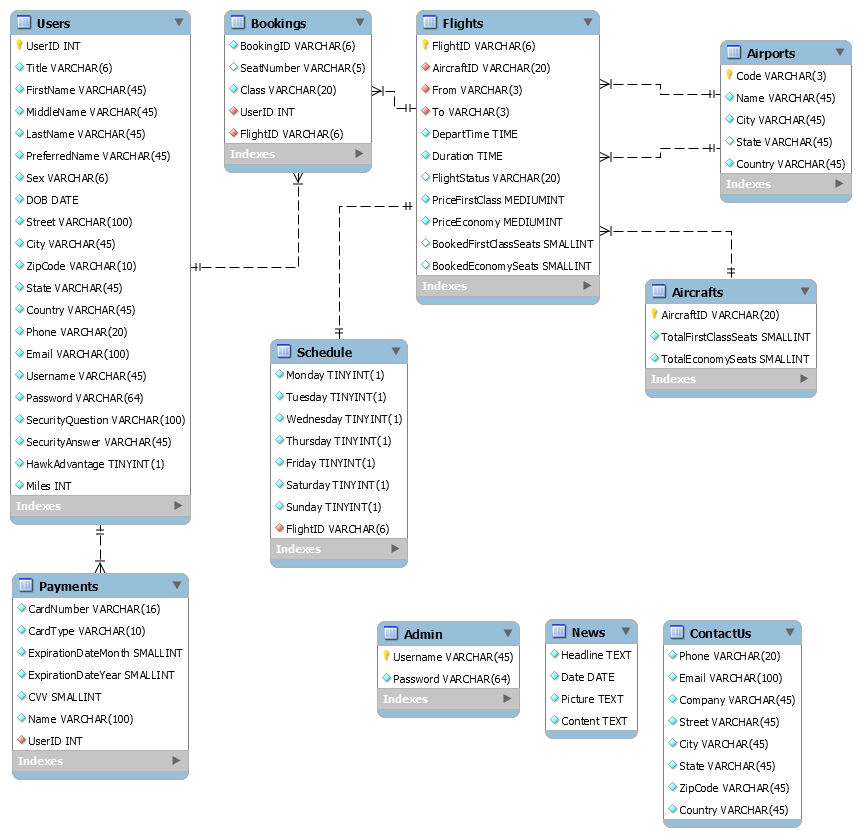
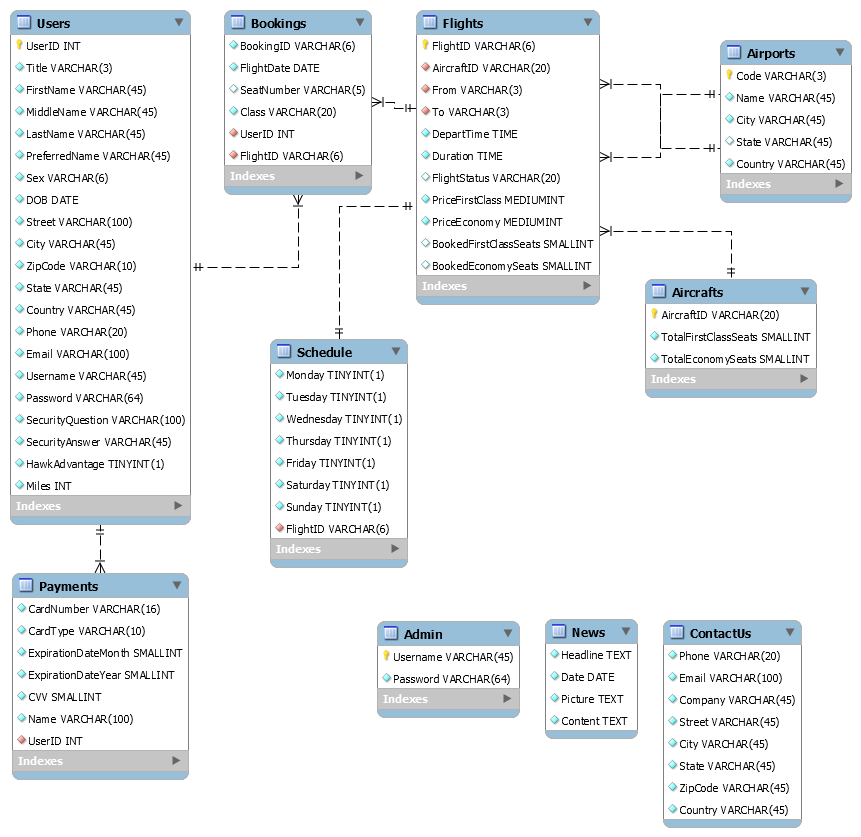
Bookings have a date now

Changed region(s): [[0.2416, 0.0621, 0.453, 0.2485]]

diff --git a/templates/dashboard.html b/templates/dashboard.html
@@ -29,8 +29,8 @@
                             <tr>
                                 <th>From</th>
                                 <th>To</th>
+                                <th>Date</th>
                                 <th>Departure Time</th>
-                                <th>Duration</th>
                             </tr>
                             <tr>
                                 <td>{{ v[0] }}</td>
@@ -40,7 +40,7 @@
                             </tr>
                             <tr>
                                 <th>Flight Number</th>
-                                <th>Aircraft</th>
+                                <th>Duration</th>
                                 <th>Class</th>
                                 <th>Seat</th>
                             </tr>

diff --git a/routes.py b/routes.py
@@ -2,6 +2,7 @@ import hashlib
 from flask import *
 
 # My files
+from helper import *
 from forms import *
 from mail import *
 from run import app, mysql
@@ -62,7 +63,8 @@ def index():
         return flightstatusDate.data
     elif flightstatusNumber.submit5.data and flightstatusNumber.validate_on_submit():
         return flightstatusNumber.data
-    return render_template("index.html", title="Home", index=True, news=news, roundtrip=roundtrip, oneway=oneway, yourtrip=yourtrip, flightstatusDate=flightstatusDate, flightstatusNumber=flightstatusNumber)
+    return render_template("index.html", title="Home", index=True, news=news, roundtrip=roundtrip,
+                           oneway=oneway, yourtrip=yourtrip, flightstatusDate=flightstatusDate, flightstatusNumber=flightstatusNumber)
 
 # About us page
 @app.route("/about-us")
@@ -160,14 +162,7 @@ def dashboard():
             abort(500)
         # Build flights if trips are not empty
         if trips:
-            flights = {}
-            for trip in trips:
-                if trip['BookingID'] not in flights:
-                    flights[trip['BookingID']] = []
-                    flights[trip['BookingID']].append([trip['From'], trip['To'], str(trip['DepartTime'])[:-3], str(trip['Duration'])[:-3] + "h", trip['FlightID'], trip['AircraftID'], trip['Class'], trip['SeatNumber']])
-                else:
-                    flights[trip['BookingID']].append([trip['From'], trip['To'], str(trip['DepartTime'])[:-3], str(trip['Duration'])[:-3] + "h", trip['FlightID'], trip['AircraftID'], trip['Class'], trip['SeatNumber']])
-            trips = flights
+            trips = buildFlights(trips)
         cursor.close()
         return render_template("dashboard.html", title="Dashboard", dashboard=True, info=info, trips=trips)
     else:
@@ -188,8 +183,10 @@ def register():
             data = request.form
             cursor = mysql.connection.cursor()
             hashedPassword = hashlib.sha256(form.password.data.encode()).hexdigest()
-            cursor.callproc("CreateUser", [data['title'], data['firstName'], data['middleName'], data['lastName'], data['preferredName'], data['sex'], data['dateOfBirth'], data['street'], data['city'],
-                                           data['zipCode'], data['state'], data['country'], data['phone'], data['email'], data['username'], hashedPassword, data['securityQuestion'], data['securityAnswer']])
+            cursor.callproc("CreateUser", [data['title'], data['firstName'], data['middleName'], data['lastName'],
+                                           data['preferredName'], data['sex'], data['dateOfBirth'], data['street'], data['city'],
+                                           data['zipCode'], data['state'], data['country'], data['phone'], data['email'],
+                                           data['username'], hashedPassword, data['securityQuestion'], data['securityAnswer']])
             mysql.connection.commit()
             cursor.close()
             flash('Your account has been created! You should be able to log in now.', 'success')

diff --git a/helper.py b/helper.py
@@ -1,0 +1,22 @@
+import datetime
+from random import choice
+from string import ascii_uppercase
+
+# This function builds flights that are displayed in dashboard and used in email
+def buildFlights(trips):
+    flights = {}
+    for trip in trips:
+        print(trip, flush=True)
+        if trip['BookingID'] not in flights:
+            flights[trip['BookingID']] = []
+            flights[trip['BookingID']].append([trip['From'], trip['To'], trip['FlightDate'].strftime("%m/%d/%Y"), str(trip['DepartTime'])[:-3], trip['FlightID'], str(trip['Duration'])[:-3] + "h", trip['Class'], trip['SeatNumber']])
+        else:
+            flights[trip['BookingID']].append([trip['From'], trip['To'], trip['FlightDate'].strftime("%m/%d/%Y"), str(trip['DepartTime'])[:-3], trip['FlightID'], str(trip['Duration'])[:-3] + "h", trip['Class'], trip['SeatNumber']])
+    return flights
+
+# This function generates a BookingID that has not been used
+def generateBookingID(ids):
+    bookingID = ''.join(choice(ascii_uppercase) for i in range(6))
+    while bookingID in ids:
+        bookingID = ''.join(choice(ascii_uppercase) for i in range(6))
+    return bookingID

diff --git a/mail.py b/mail.py
@@ -48,11 +48,11 @@ def build_booking_plaintext(BookingID, flights):
         
         From: %s
         To: %s
+        Date: %s
         Departure Time: %s
-        Duration: %s
         
         Flight Number: %s
-        Aircraft: %s
+        Duration: %s
         Class: %s
         Seat: %s
         -------------------------------------------------------------
@@ -127,8 +127,8 @@ def build_booking_html(BookingID, flights):
             <tr>
                 <th>From</th>
                 <th>To</th>
+                <th>Date</th>
                 <th>Departure Time</th>
-                <th>Duration</th>
             </tr>
             <tr>
                 <td>%s</td>
@@ -138,7 +138,7 @@ def build_booking_html(BookingID, flights):
             </tr>
             <tr>
                 <th>Flight Number</th>
-                <th>Aircraft</th>
+                <th>Duration</th>
                 <th>Class</th>
                 <th>Seat</th>
             </tr>
